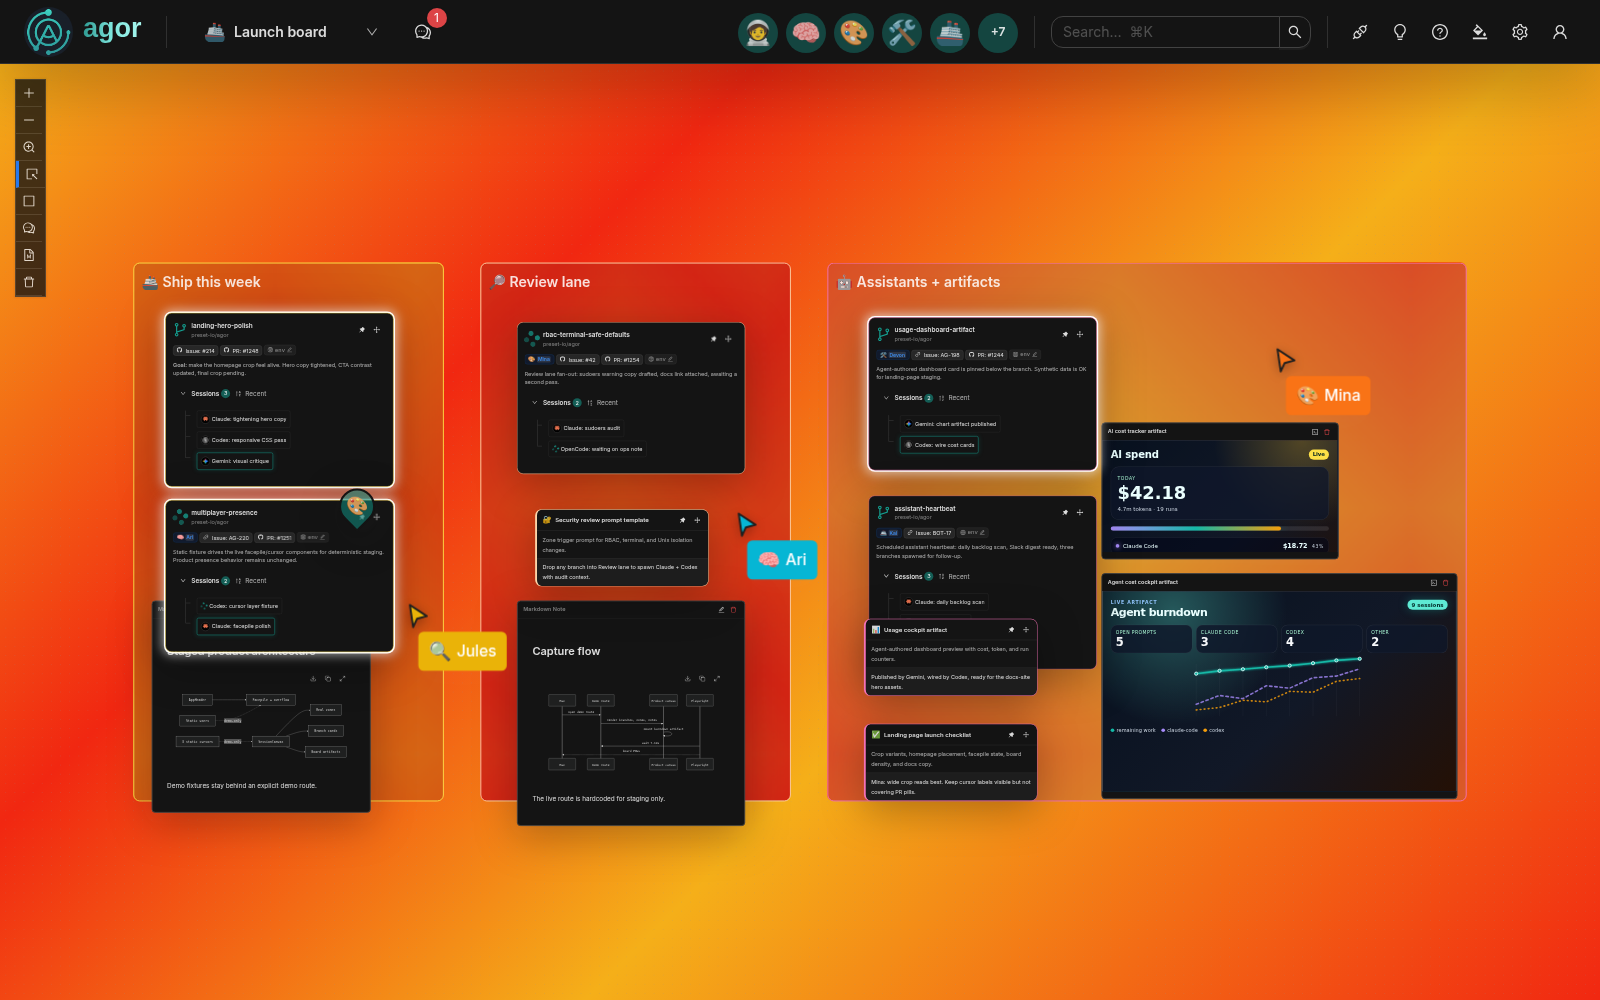
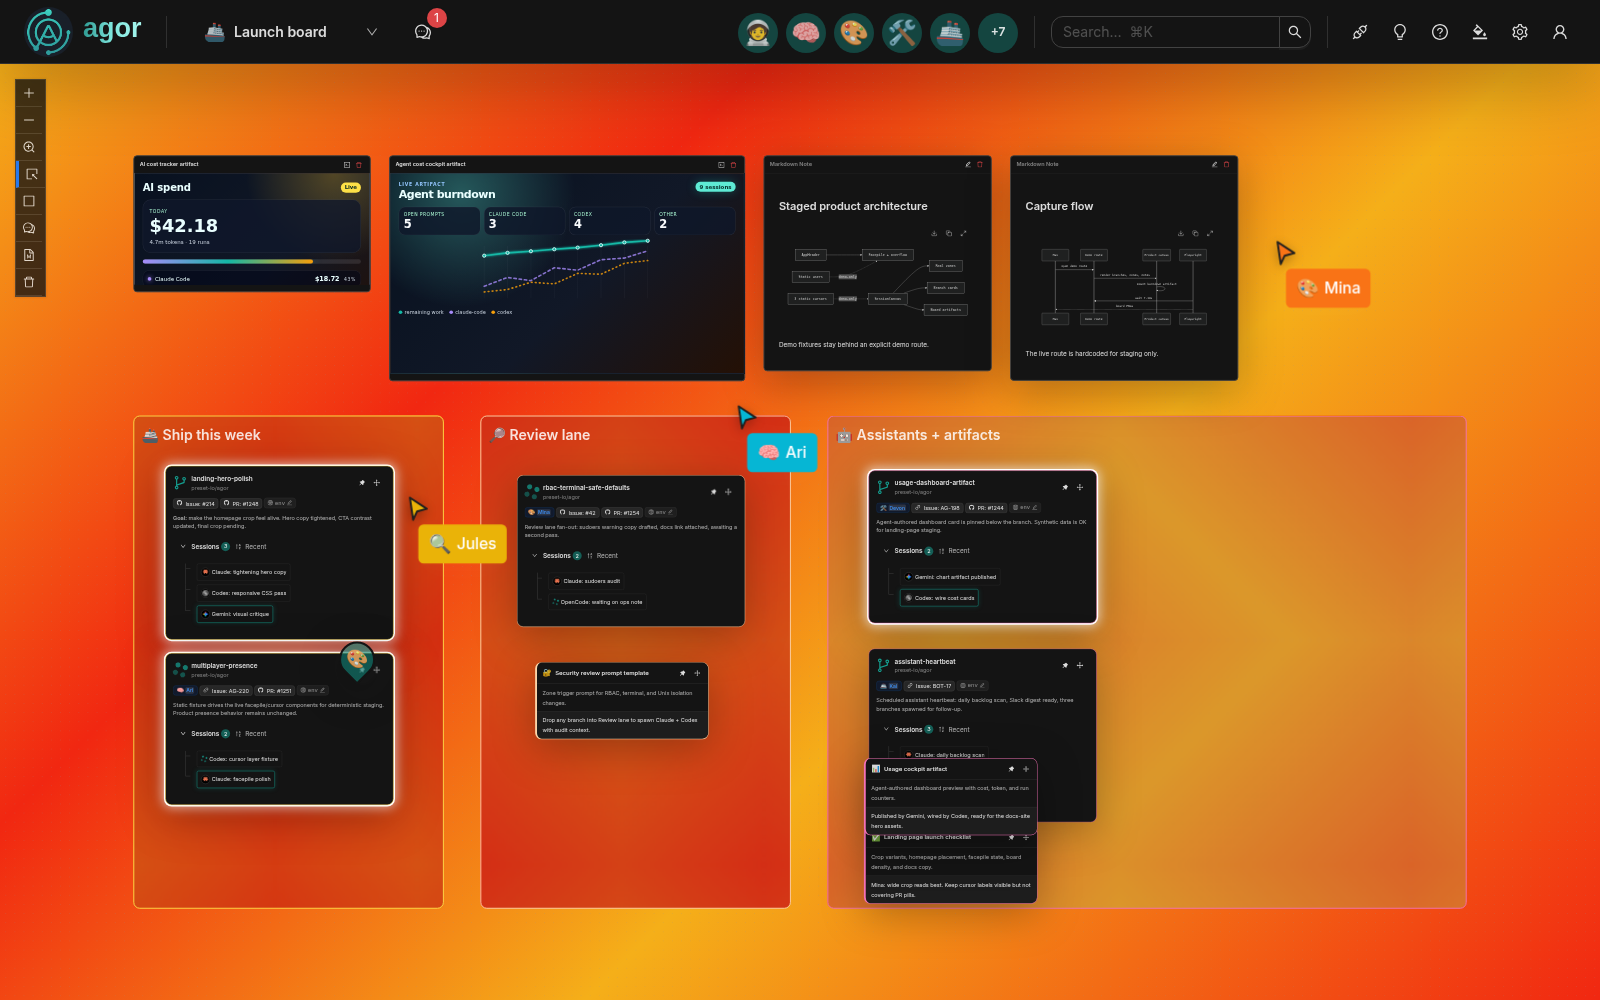
Reposition marketing artifacts above kanban

diff --git a/apps/agor-ui/src/pages/MarketingScreenshotPage.tsx b/apps/agor-ui/src/pages/MarketingScreenshotPage.tsx
@@ -59,9 +59,9 @@ const board: Board = {
     'zone-ship': {
       type: 'zone',
       x: 60,
-      y: 80,
+      y: 650,
       width: 680,
-      height: 1180,
+      height: 1080,
       label: '🚢 Ship this week',
       borderColor: '#fde047',
       backgroundColor: 'rgba(120,53,15,0.24)',
@@ -75,9 +75,9 @@ const board: Board = {
     'zone-review': {
       type: 'zone',
       x: 820,
-      y: 80,
+      y: 650,
       width: 680,
-      height: 1180,
+      height: 1080,
       label: '🔎 Review lane',
       borderColor: '#fed7aa',
       backgroundColor: 'rgba(127,29,29,0.26)',
@@ -91,9 +91,9 @@ const board: Board = {
     'zone-assistants': {
       type: 'zone',
       x: 1580,
-      y: 80,
+      y: 650,
       width: 1400,
-      height: 1180,
+      height: 1080,
       label: '🤖 Assistants + artifacts',
       borderColor: '#f472b6',
       backgroundColor: 'rgba(88,28,135,0.16)',
@@ -106,8 +106,8 @@ const board: Board = {
     },
     'app-usage-cockpit': {
       type: 'app',
-      x: 2180,
-      y: 760,
+      x: 620,
+      y: 80,
       width: 780,
       height: 495,
       title: 'Agent cost cockpit artifact',
@@ -199,8 +199,8 @@ const board: Board = {
 
     'app-ai-cost-tracker': {
       type: 'app',
-      x: 2180,
-      y: 430,
+      x: 60,
+      y: 80,
       width: 520,
       height: 300,
       title: 'AI cost tracker artifact',
@@ -256,16 +256,16 @@ const board: Board = {
     },
     'note-architecture': {
       type: 'markdown',
-      x: 100,
-      y: 820,
-      width: 480,
+      x: 1440,
+      y: 80,
+      width: 500,
       content:
         '### Staged product architecture\n\n```mermaid\nflowchart LR\n  Header[AppHeader] --> Facepile[Facepile + overflow]\n  Board[SessionCanvas] --> Zones[Real zones]\n  Board --> Branches[Branch cards]\n  Board --> Artifacts[Board artifacts]\n  Presence[Static users] -.demo-only.-> Facepile\n  Cursors[3 static cursors] -.demo-only.-> Board\n```\n\nDemo fixtures stay behind an explicit demo route.',
     },
     'note-sequence': {
       type: 'markdown',
-      x: 900,
-      y: 820,
+      x: 1980,
+      y: 80,
       width: 500,
       content:
         '### Capture flow\n\n```mermaid\nsequenceDiagram\n  participant Max\n  participant UI as Demo route\n  participant Canvas as Product canvas\n  participant Shot as Playwright\n  Max->>UI: open demo route\n  UI->>Canvas: render branches, zones, notes\n  Canvas->>Canvas: mount burndown artifact\n  Shot->>UI: wait 7-10s\n  Shot-->>Max: board PNGs\n```\n\nThe live route is hardcoded for staging only.',
@@ -513,7 +513,7 @@ const cardObjects: BoardEntityObject[] = [
     board_id: boardId,
     card_id: cards[0].card_id,
     entity_type: 'card',
-    position: { x: 80, y: 1010 },
+    position: { x: 80, y: 900 },
     zone_id: 'zone-assistants',
     created_at: now,
   },
@@ -522,7 +522,7 @@ const cardObjects: BoardEntityObject[] = [
     board_id: boardId,
     card_id: cards[1].card_id,
     entity_type: 'card',
-    position: { x: 80, y: 780 },
+    position: { x: 80, y: 750 },
     zone_id: 'zone-assistants',
     created_at: now,
   },
